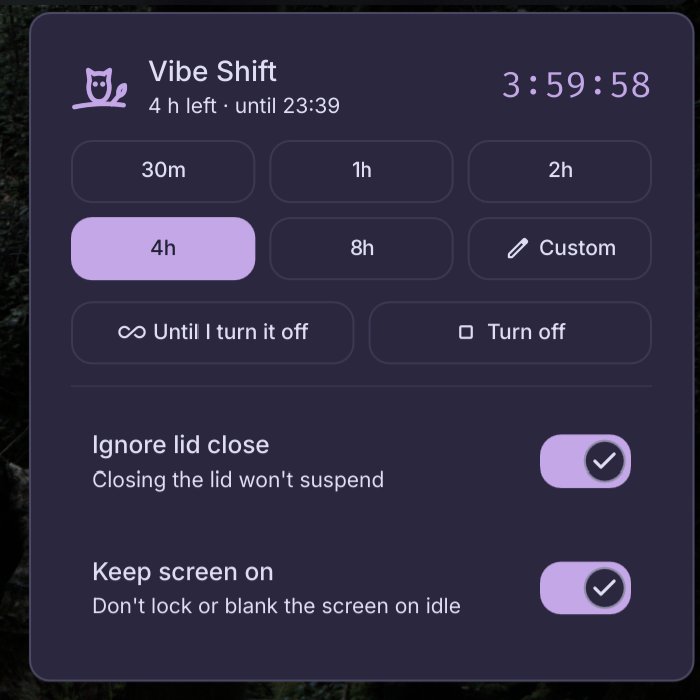
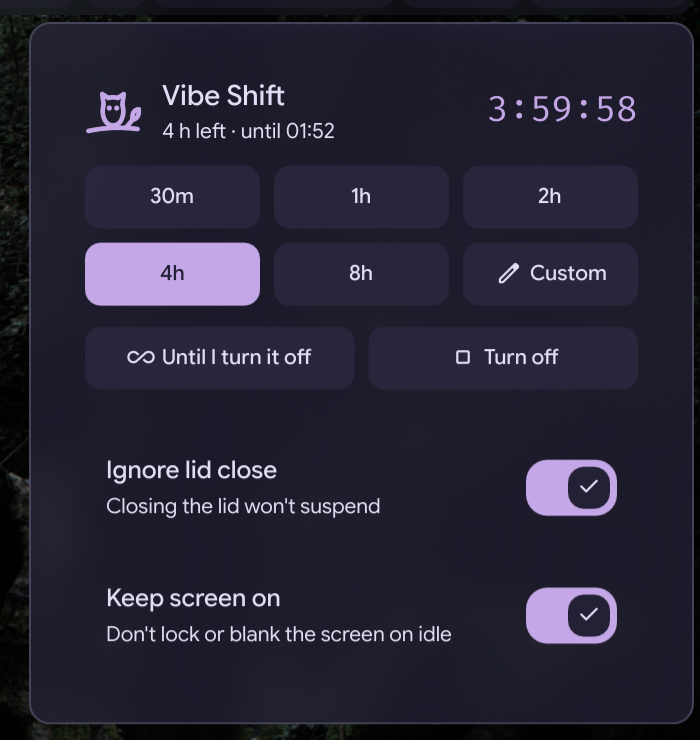
Give chips the Control Center tile colours; refresh the screenshot

diff --git a/VibeShiftPanel.qml b/VibeShiftPanel.qml
@@ -39,11 +39,9 @@ Rectangle {
 
         height: 36
         radius: Theme.cornerRadius
-        color: selected ? Theme.primary : chipArea.containsMouse ? (danger ? Theme.errorPressed : Theme.primaryPressed) : Theme.floatingSurface
-        border.color: selected ? Theme.primary : Theme.outlineStrong
-        border.width: 1
+        color: selected ? Theme.ccTileActiveBg : chipArea.containsMouse ? Qt.tint(Theme.ccPillInactiveBg, danger ? Theme.errorPressed : Theme.primaryPressed) : Theme.ccPillInactiveBg
 
-        readonly property color fg: selected ? Theme.primaryText : (danger && chipArea.containsMouse ? Theme.error : Theme.surfaceText)
+        readonly property color fg: selected ? Theme.ccTileActiveText : (danger && chipArea.containsMouse ? Theme.error : Theme.surfaceText)
 
         Row {
             anchors.centerIn: parent
